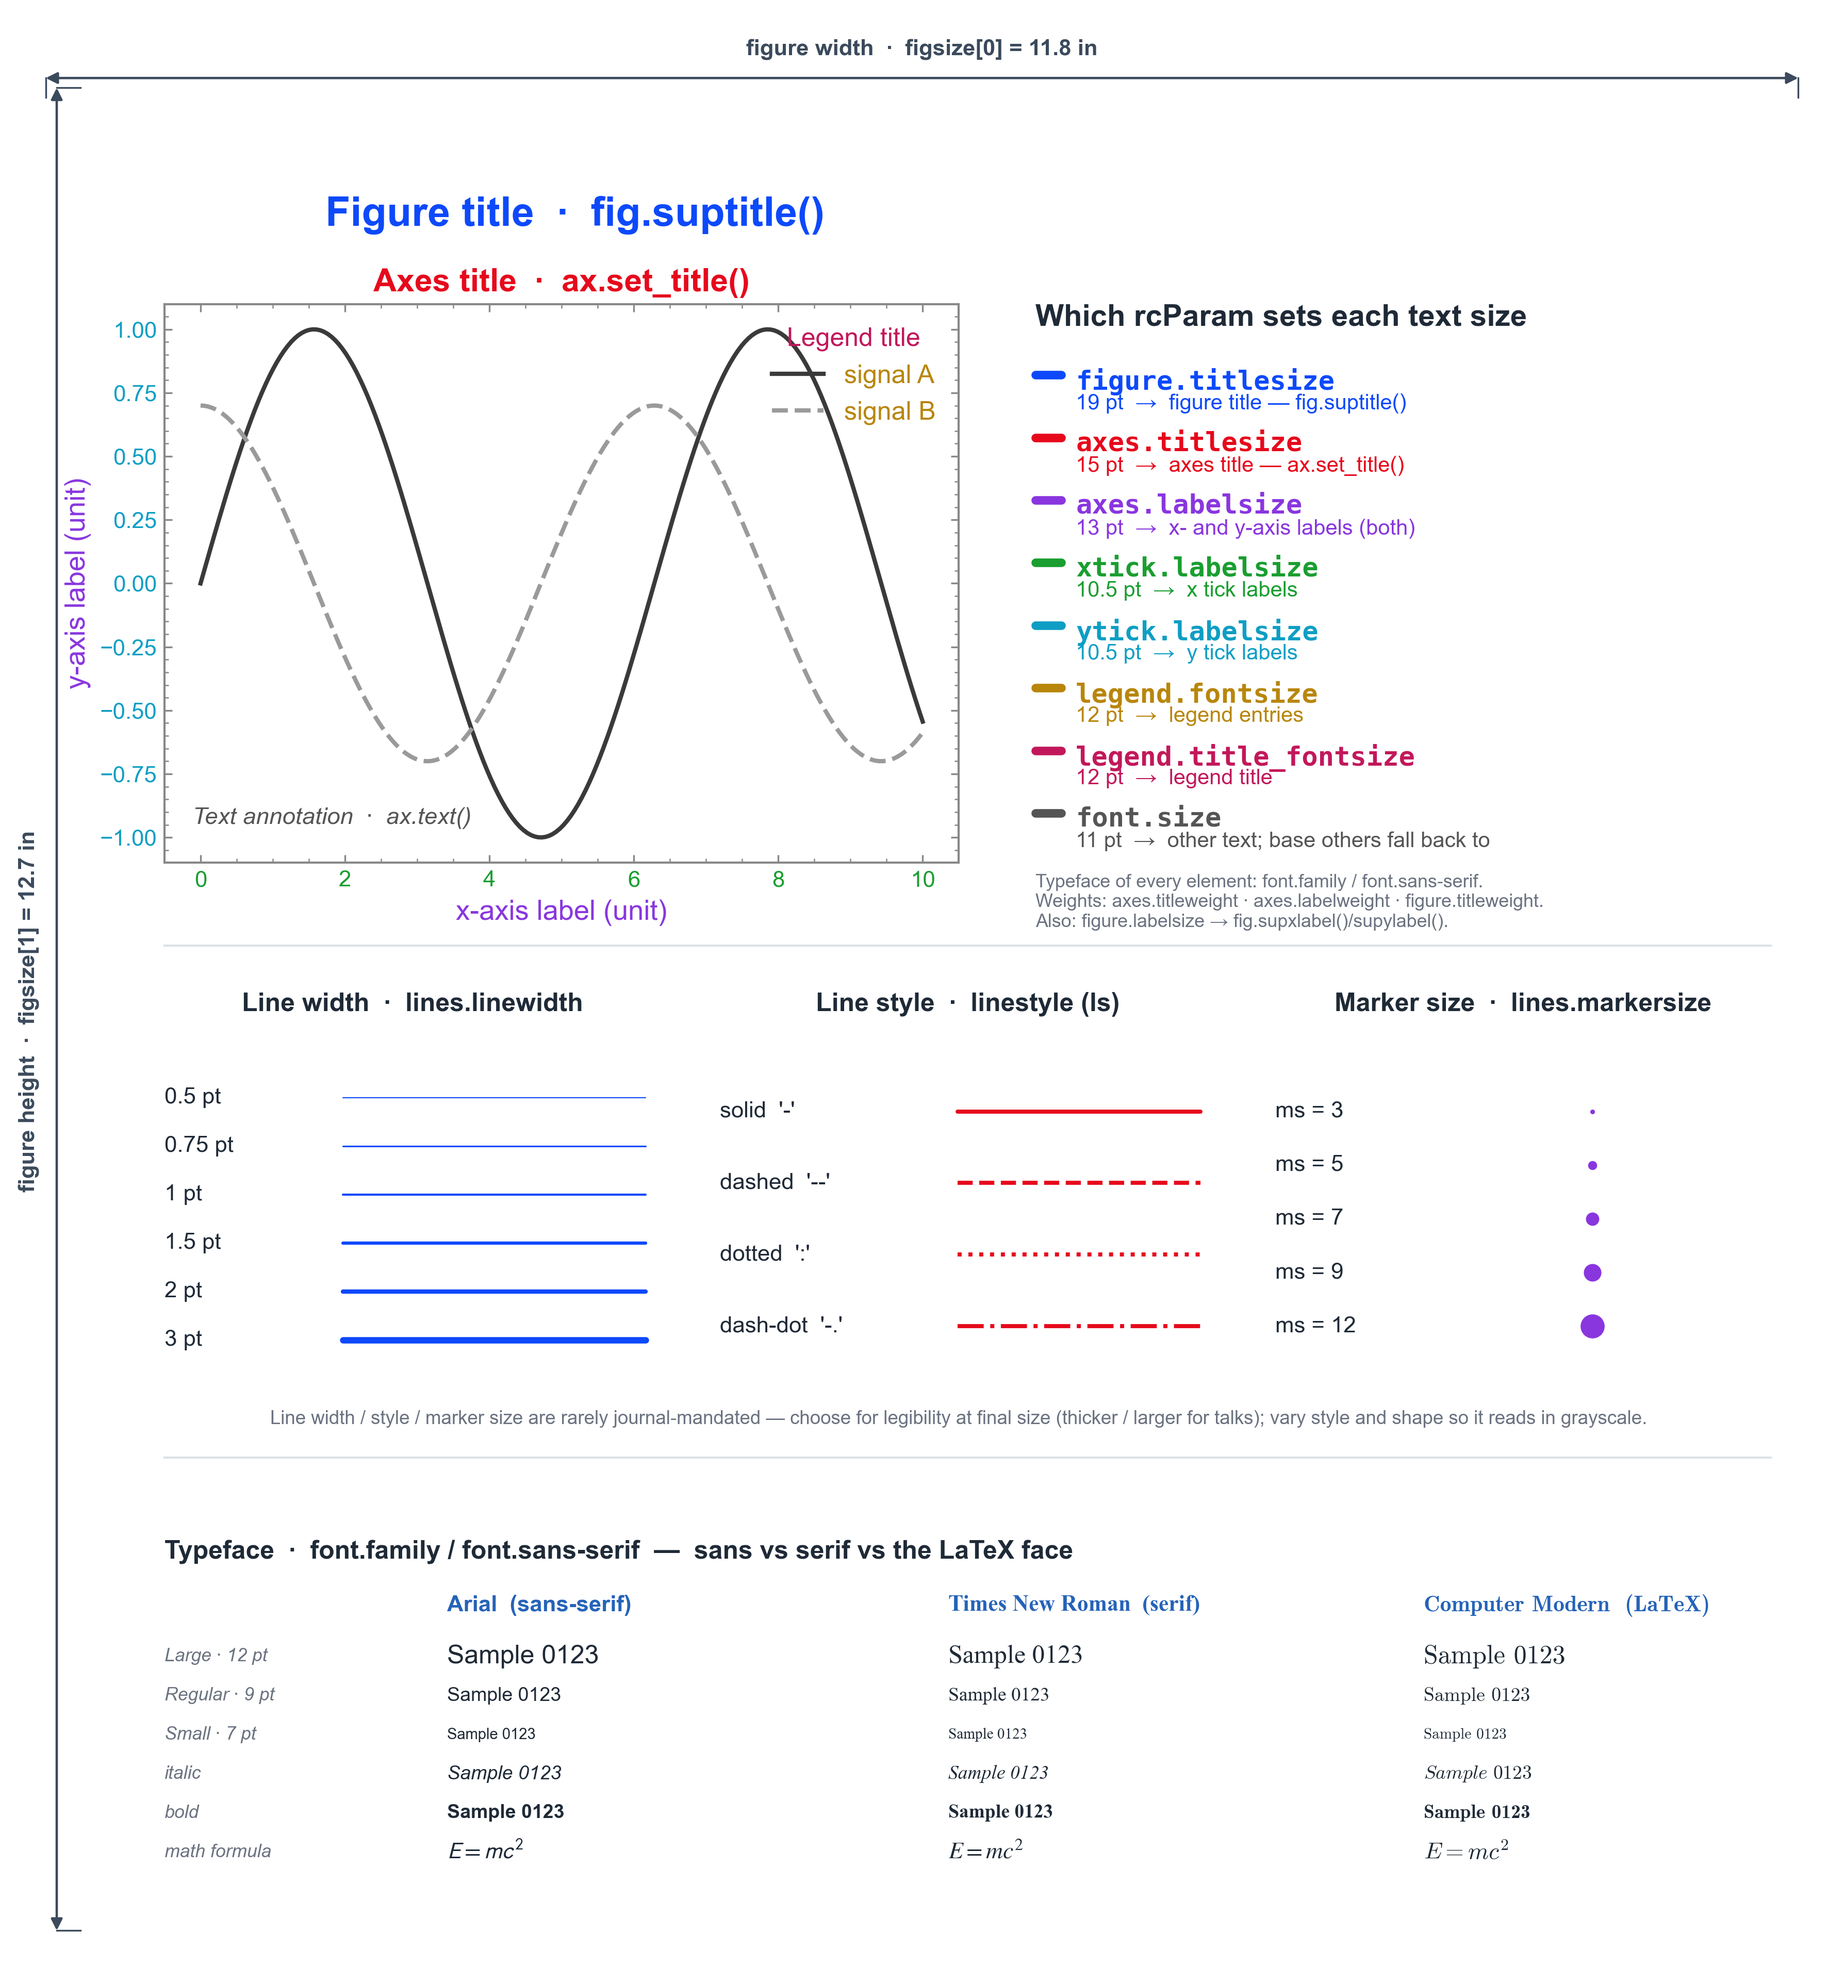
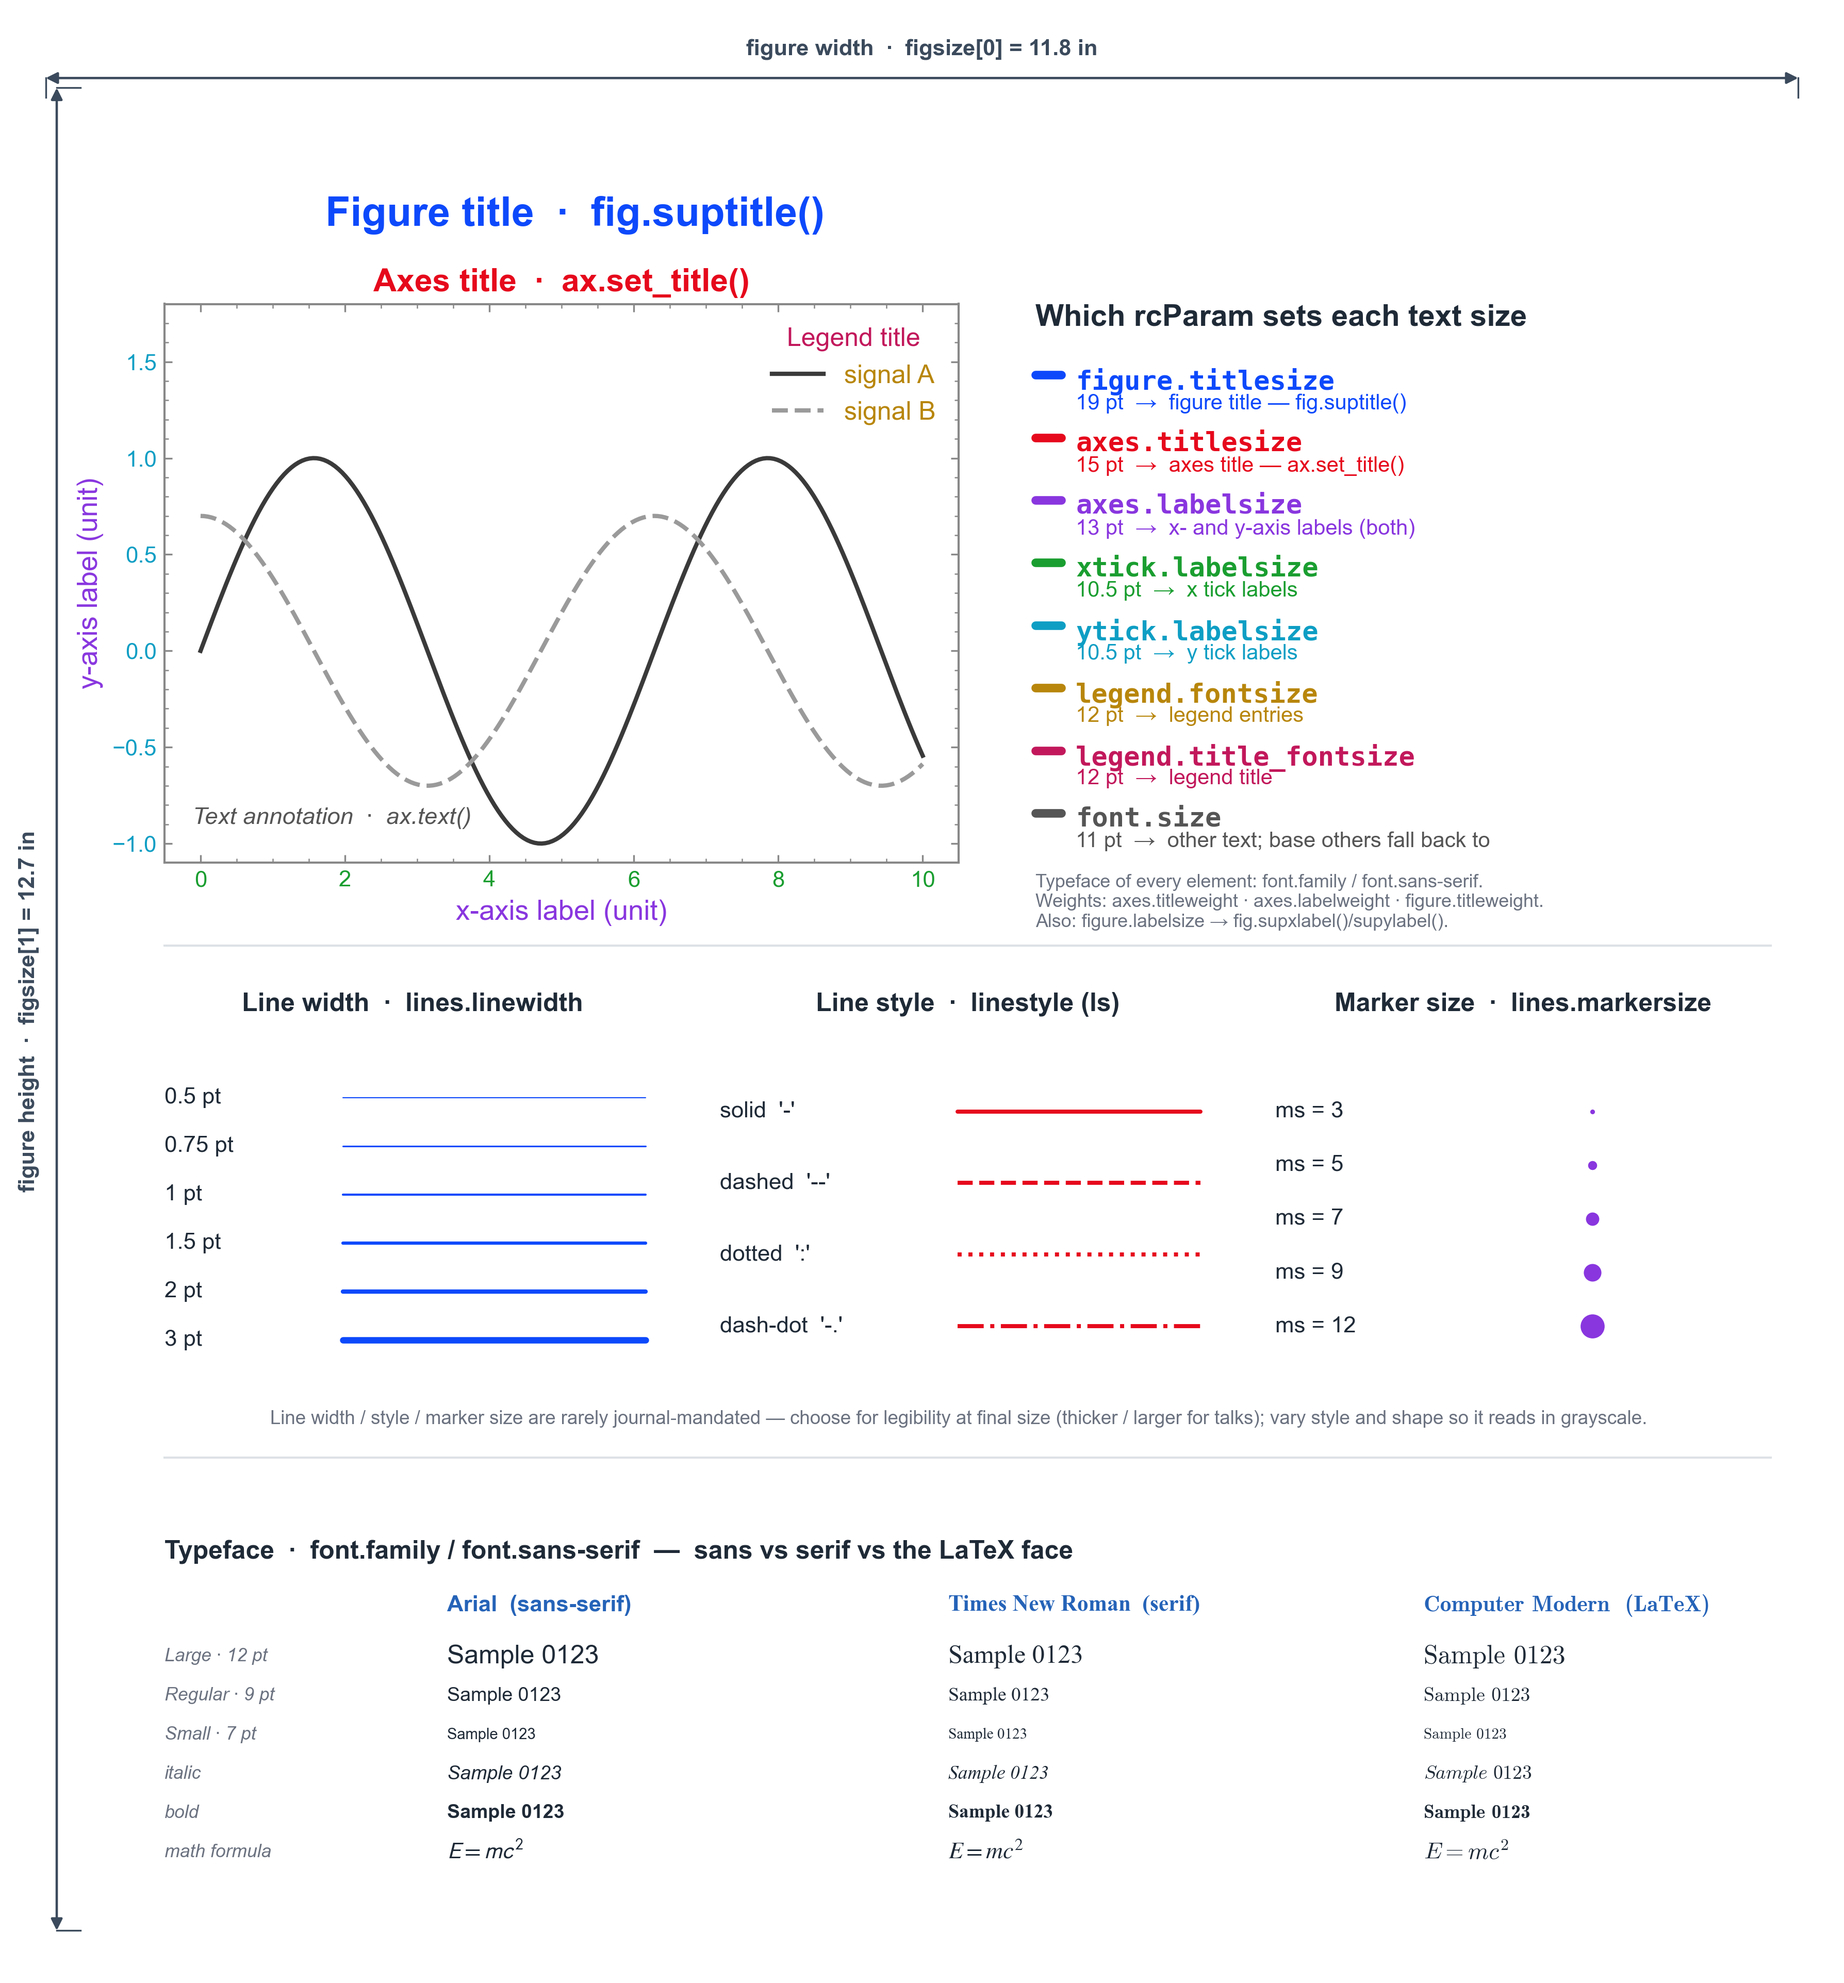
Fix figure occlusions; add a horizontal tab bar for journal layouts
- slide_layout: shorten the long bullet and nudge the inset figure right
  so the text column clears the plot's y-axis.
- rcparams_text_map: add top headroom so the frameless legend sits above
  the curves instead of overlapping them.
- README: add a "Jump to" tab bar with per-publisher anchors above the
  collapsible layouts (GitHub can't truly tab-switch, so each stays a
  click-to-expand section).

diff --git a/scripts/slide_layout.py b/scripts/slide_layout.py
@@ -89,7 +89,7 @@ def render():
 
     # ---- bullets -------------------------------------------------------------
     bullets = ["Big type, thick lines", "One idea per slide",
-               "High contrast, little clutter"]
+               "High contrast"]
     by = SH - 2.75
     for k, b in enumerate(bullets):
         ax.plot([mx + 0.13], [by - 0.02], marker="o", ms=6.5,
@@ -100,7 +100,7 @@ def render():
             color=SUB, fontweight="bold", va="top", zorder=4)
 
     # ---- the figure fills the content area ----------------------------------
-    fx0, fy0, fw, fh = 5.55, 0.85, 7.25, 4.55
+    fx0, fy0, fw, fh = 5.95, 0.85, 6.8, 4.55   # nudged right of the bullet column
     sub = ax.inset_axes([fx0, fy0, fw, fh], transform=ax.transData)
     sub.set_zorder(3); slide_plot(sub)
     ax.text(fx0, fy0 + fh + 0.5, "figure fills the content area · data lines 1.5–3 pt",

diff --git a/scripts/rcparams_text_map.py b/scripts/rcparams_text_map.py
@@ -82,6 +82,7 @@ spec = fig.add_subplot(gs[2]); spec.axis("off")
 x = np.linspace(0, 10, 200)
 ax.plot(x, np.sin(x), color="#3a3a3a", label="signal A")
 ax.plot(x, 0.7 * np.cos(x), color="#9a9a9a", ls="--", label="signal B")
+ax.set_ylim(-1.1, 1.8)   # top headroom so the frameless legend clears the curves
 
 ax.set_title("Axes title  ·  ax.set_title()", color=C["axes.titlesize"], fontweight="bold")
 ax.set_xlabel("x-axis label (unit)", color=C["axes.labelsize"])

diff --git a/README.md b/README.md
@@ -121,9 +121,11 @@ you set in inches, not points).
 Six publishers drawn **to scale** — paper size and margins, a full-width multi-panel figure and a
 part-/single-column figure at each journal's true widths and a distinct aspect ratio, with panel
 labels and captions in each house style and greeked body text. A **blue** tag marks the full-width
-figure, an **orange** tag the single-/part-width one; the dashed box is the text area. GitHub
-doesn't render tabs, so each layout is a **collapsible section — click to expand.**
+figure, an **orange** tag the single-/part-width one; the dashed box is the text area.
 
+**Jump to:** [Nature](#layout-nature) · [Elsevier](#layout-elsevier) · [Springer](#layout-springer) · [IEEE](#layout-ieee) · [Wiley](#layout-wiley) · [Science](#layout-science) — GitHub can't truly tab-switch, so each opens as a **click-to-expand** section below.
+
+<a id="layout-nature"></a>
 <details open>
 <summary><b>Nature</b> — A4, two-column · panel labels: bold lowercase a, b, c</summary>
 
@@ -131,6 +133,7 @@ doesn't render tabs, so each layout is a **collapsible section — click to expa
 
 </details>
 
+<a id="layout-elsevier"></a>
 <details>
 <summary><b>Elsevier</b> — A4, two-column · panel labels: (a), (b)</summary>
 
@@ -138,6 +141,7 @@ doesn't render tabs, so each layout is a **collapsible section — click to expa
 
 </details>
 
+<a id="layout-springer"></a>
 <details>
 <summary><b>Springer</b> — A4, two-column · panel labels: bold (a), (b)</summary>
 
@@ -145,6 +149,7 @@ doesn't render tabs, so each layout is a **collapsible section — click to expa
 
 </details>
 
+<a id="layout-ieee"></a>
 <details>
 <summary><b>IEEE</b> — US Letter, two-column · panel labels: (a) below each panel</summary>
 
@@ -152,6 +157,7 @@ doesn't render tabs, so each layout is a **collapsible section — click to expa
 
 </details>
 
+<a id="layout-wiley"></a>
 <details>
 <summary><b>Wiley</b> — US Letter, single-column · panel labels: (A), (B)</summary>
 
@@ -159,6 +165,7 @@ doesn't render tabs, so each layout is a **collapsible section — click to expa
 
 </details>
 
+<a id="layout-science"></a>
 <details>
 <summary><b>Science (AAAS)</b> — US Letter, three-column · panel labels: bold A, B</summary>
 
